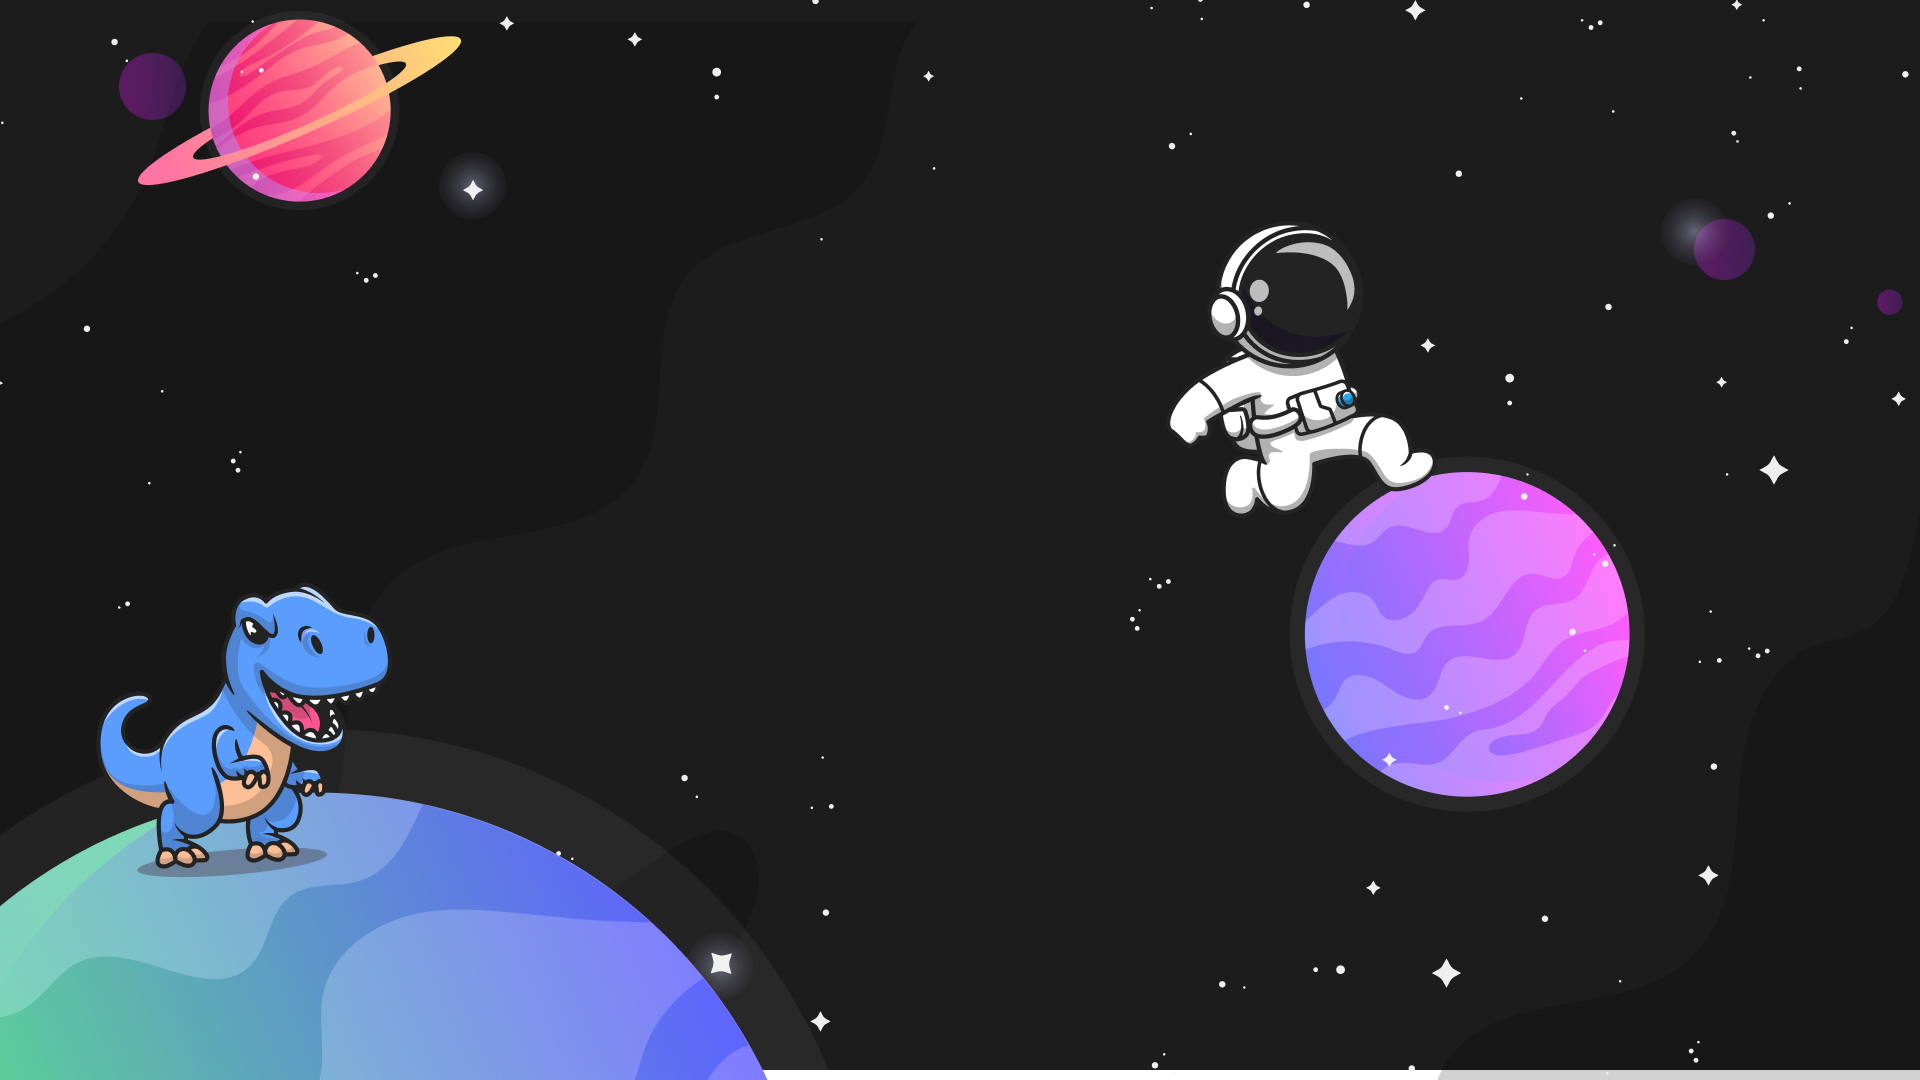
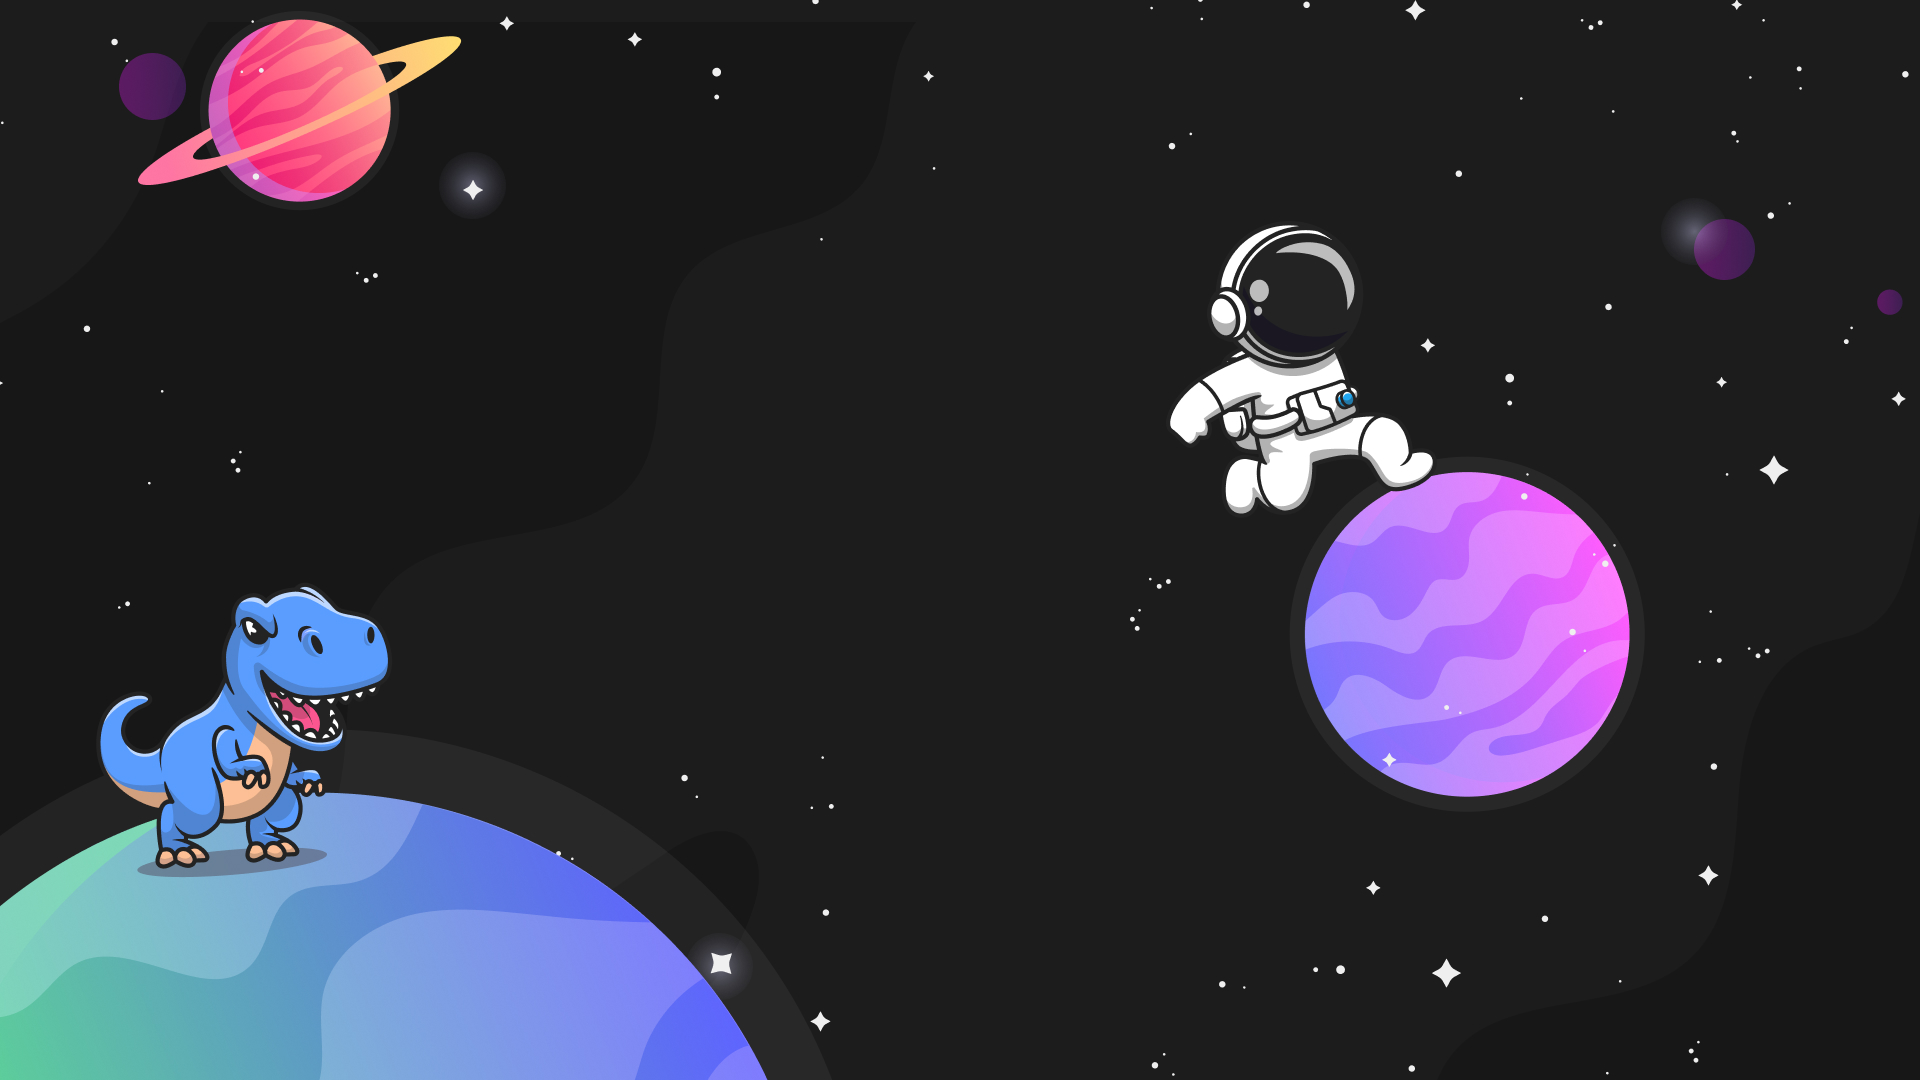
1 binaries uploaded

Changed region(s): [[0.375, 0.9778, 1.0, 1.0]]

diff --git a/styles.css b/styles.css
@@ -9,38 +9,8 @@ body {
   background-color: white;
 }
 
-nav {
-  display: flex;
-  flex-wrap: wrap;
-  align-items: center;
-  justify-content: center;
-  padding: 0.5rem;
-  gap: 0.5rem;
-  border-bottom: solid 1px #aaa;
-  background-color: #eee;
-}
-
-nav a {
-  display: inline-block;
-  min-width: 9rem;
-  padding: 0.5rem;
-  border-radius: 0.2rem;
-  border: solid 1px #aaa;
-  text-align: center;
-  text-decoration: none;
-  color: #555;
-}
-
-nav a[aria-current='page'] {
-  color: #000;
-  background-color: #d4d4d4;
-}
-
-main {
-  padding: 1rem;
-}
-
-h1 {
-  font-weight: bold;
-  font-size: 1.5rem;
+.bg-error {
+  background-image: url('./images/bg.jpg');
+  height: 1080px;
+  width: 1920px;
 }

diff --git a/index.html b/index.html
@@ -12,12 +12,12 @@
     <script type="module" src="script.js"></script>
   </head>
   <body>
-    <nav>
-      <a href="/" aria-current="page">Home</a>
-      <a href="/page2.html">Other page</a>
-    </nav>
-    <main>
-      <h1>Home page</h1>
-    </main>
+    <div class="bg-error">
+      holaaaaaaa
+      <div>
+        <a href="/">Stay tuned</a>
+        <a href="/page2.html">Contact Us</a>
+      </div>
+    </div>
   </body>
 </html>
